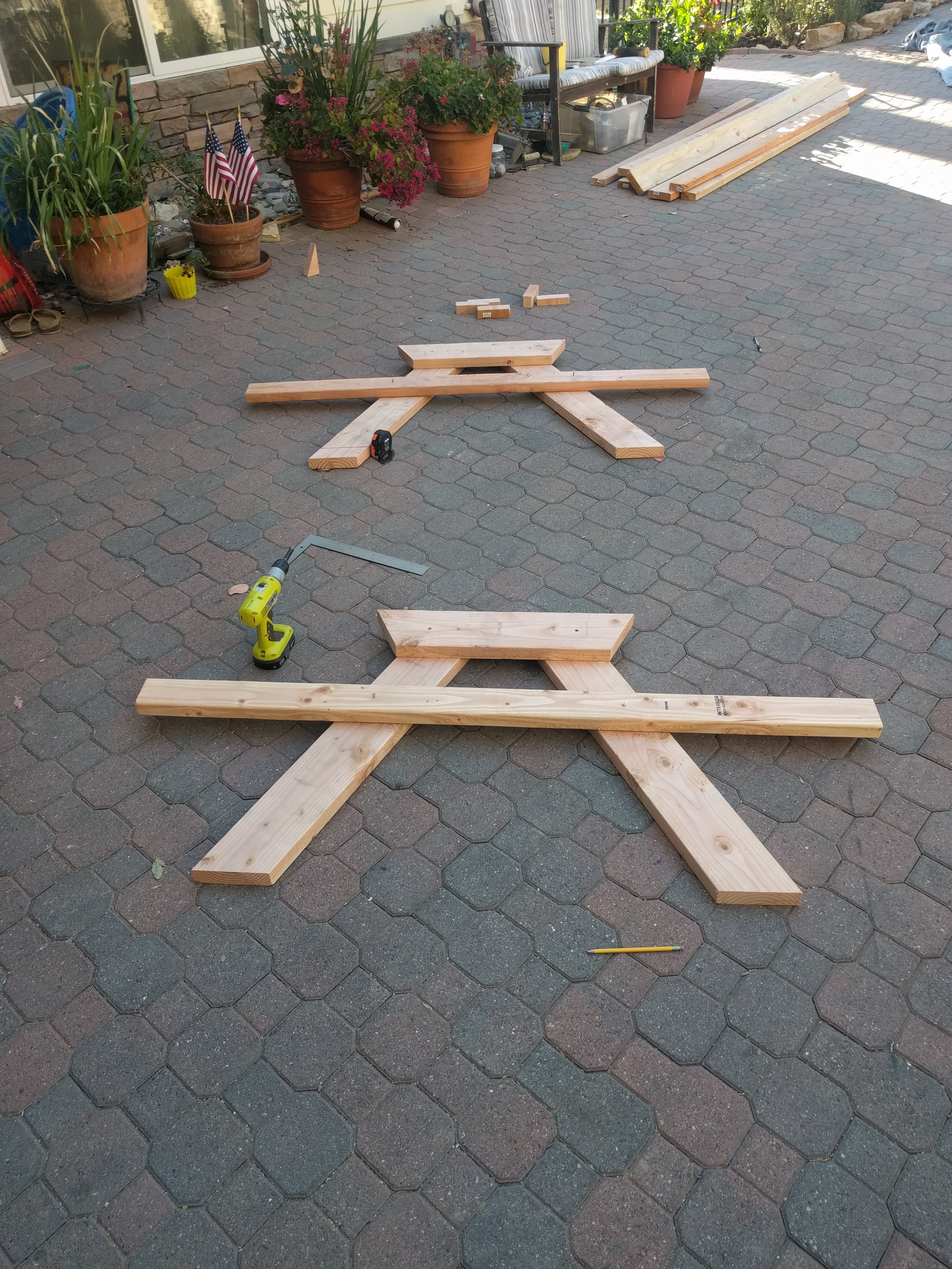
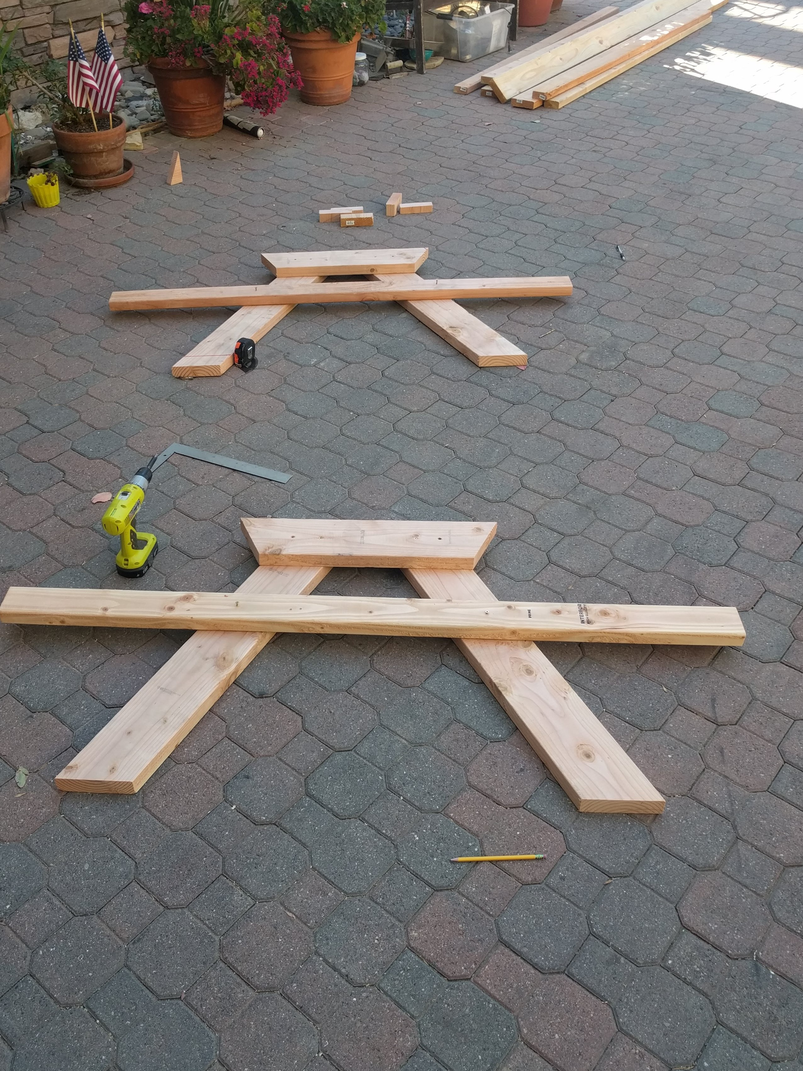
Furniture

diff --git a/Furniture.md b/Furniture.md
@@ -1,3 +1,32 @@
-### Furniture
+# Furniture
+
+
+### Picnic Table
+
+My mom wanted a  table modeled after the ones at Zuma Beach. They were the basic picnic table frame made from heavy 2x6s and 2x8s. When making this table I used 2x4s and 2x6s to save on weight and money. Most notably they were painted yellow. We found the perfect shade at Dunn Edwards and it glows to this day.  
+  
+
+Assembling frames of the table:
+<img src="PicnicTableFrame.jpg" height="800" width="600">
+  
+Here the tabletop and benchtops, which hold the frame together, are being screwing in:
+<img src="PicnicTableUnpainted.jpg" height="800" width="600">
+
+
+### Birch Sidetable
+
+Another mom commission. I slide into our old sidetable and broke it.
+
+The top is a combination of birch and a maple centerpiece cut with my new tablesaw. 
+<img src="SidetableTopUnlacored.jpg" height="800" width="600">
+  
+The table will be connected to the legs via this frame also made of finished birch.
+<img src="SidetableUnderneath.jpg" height="800" width="600">
+  
+The legs were turned out of pine planks glued together, this was to save on cost since we spent all our money on the finished birch.
+<img src="SidetableLeg.jpg" height="800" width="600">
+  
+This is what the tabletop looks finished with mineral oil.  
+<img src="SidetableTopLacored.jpg" height="800" width="600">
 
 
